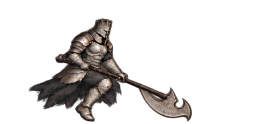
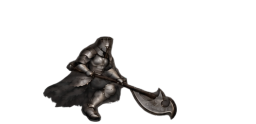
fix: match Gundyr walk scale and armor palette to idle

Changed region(s): [[0.0938, 0.1452, 0.75, 0.9919]]

diff --git a/tests/test_walk_animation.py b/tests/test_walk_animation.py
@@ -4,6 +4,7 @@ import contextlib
 import io
 import os
 from pathlib import Path
+from statistics import median
 import tempfile
 import unittest
 from unittest.mock import patch
@@ -66,7 +67,8 @@ class DrawnWalkTests(unittest.TestCase):
     def test_every_pose_is_distinct_including_the_torso(self):
         pixels = {pygame.image.tobytes(frame, "RGBA") for frame in self.frames}
         self.assertEqual(len(pixels), 16)
-        torso = pygame.Rect(36, 25, 50, 48)
+        torso = pygame.Rect(exporter.BODY_AXIS - 14,
+                            exporter.BASELINE - exporter.WALK_POSE_HEIGHT + 17, 38, 36)
         chest = {pygame.image.tobytes(frame.subsurface(torso), "RGBA") for frame in self.frames}
         self.assertEqual(len(chest), 16)
 
@@ -90,6 +92,46 @@ class DrawnWalkTests(unittest.TestCase):
         heights = [frame.get_bounding_rect(min_alpha=24).height for frame in self.frames]
         self.assertGreater(max(heights), min(heights))
         self.assertLessEqual(max(heights) - min(heights), 5)
+
+    def test_bent_walk_is_not_enlarged_to_the_upright_idle_height(self):
+        idle = main.SpriteArt._strips("gundyr", ("idle",), 1.0)["idle"]
+        idle_height = median(frame.get_bounding_rect(min_alpha=24).height for frame in idle)
+        # A bent torso and flexed knees must reduce pose height, not cause
+        # larger helmet/plates through a full-height normalization to idle.
+        for frame in self.frames:
+            height = frame.get_bounding_rect(min_alpha=24).height
+            self.assertGreater(height, idle_height * 0.75)
+            self.assertLess(height, idle_height * 0.90)
+
+    def test_generated_metal_palette_matches_idle_without_bright_silver_pop(self):
+        def palette(frames):
+            colors = [frame.get_at((x, y)) for frame in frames
+                      for y in range(frame.get_height()) for x in range(frame.get_width())
+                      if frame.get_at((x, y)).a > 200]
+            luminance = sorted(.2126 * color.r + .7152 * color.g + .0722 * color.b
+                               for color in colors)
+            levels = [luminance[int((len(luminance) - 1) * fraction)]
+                      for fraction in (.90, .95, .99)]
+            warmth = median(color.r - color.b for color in colors)
+            return levels, warmth
+
+        idle = main.SpriteArt._strips("gundyr", ("idle",), 1.0)["idle"]
+        reference, reference_warmth = palette(idle)
+        walk, walk_warmth = palette(self.frames)
+        # Allow different visible cloth/metal coverage and painted texture,
+        # but reject the bright cream/silver highlights of the old walk sheet.
+        for actual, expected, tolerance in zip(walk, reference, (12, 12, 25)):
+            self.assertLessEqual(abs(actual - expected), tolerance)
+        # A few RGB levels allow natural painted reflections/cloth coverage,
+        # but not the noticeably warm bronze tint of the previous drawings.
+        self.assertLessEqual(walk_warmth, reference_warmth + 5)
+
+    def test_corrected_source_has_wide_vertical_gutters_between_rows(self):
+        bounds = exporter.source_rects(self.source)
+        for row in range(3):
+            lowest = max(rect.bottom for rect in bounds[row * 4:row * 4 + 4])
+            next_top = min(rect.top for rect in bounds[(row + 1) * 4:(row + 2) * 4])
+            self.assertGreaterEqual(next_top - lowest, 32)
 
     def test_export_never_imports_warping_or_interpolation_tools(self):
         original_import = builtins.__import__

diff --git a/prepare_drawn_walk.py b/prepare_drawn_walk.py
@@ -3,7 +3,9 @@
 The source is a generated 4x4 sheet. A connected opaque silhouette identifies
 each complete sprite (body AND weapon); explicit pelvis registration keeps
 the animation origin stable. Only crop, uniform whole-pose scale and padding
-are used. Row scale calibration corrects the generator's atlas-size variation.
+are used. Color/material corrections are painted in the generated source,
+not applied as a runtime tint. Row calibration corrects atlas-size variation;
+the walk's bent silhouette is deliberately shorter than the upright idle.
 Runtime consumes sixteen independent PNGs, never neighboring atlas cells.
 """
 
@@ -15,7 +17,7 @@ import pygame
 
 
 ROOT = Path(__file__).parent
-SOURCE = ROOT / "assets" / "source_v6" / "gundyr_walk.png"
+SOURCE = ROOT / "assets" / "source_v6" / "gundyr_walk_consistent.png"
 OUTPUT = ROOT / "assets" / "animations_v6" / "gundyr_walk"
 FRAME_COUNT = 16
 CELL_SIZE = (256, 124)
@@ -23,19 +25,24 @@ BODY_AXIS = 104
 BASELINE = CELL_SIZE[1] - 2
 ALPHA_THRESHOLD = 24
 MIN_SPRITE_PIXELS = 500
-# Artist registration points, in the ORIGINAL selected source's coordinates.
+# Artist registration points, in the corrected source's coordinates.
 # These identify the pelvis, not the changing blade extent or head tilt.
 PELVIS_X = (
-    195, 606, 1052, 1479,
-    201, 611, 1060, 1491,
-    202, 610, 1057, 1492,
-    207, 626, 1059, 1493,
+    212, 629, 1044, 1458,
+    214, 625, 1056, 1463,
+    218, 627, 1046, 1463,
+    218, 637, 1053, 1471,
 )
-SOURCE_SIZE = (1672, 941)
+SOURCE_SIZE = (1671, 941)
 # AI sheets can draw later rows at a smaller pixel scale. Correct each row as
 # a WHOLE, identically on both axes and on all four poses in it; do not stretch
 # a limb or scale individual poses to equal heights. Their drawn bob remains.
-ROW_SCALES = (104 / 231.5, 104 / 232.5, 104 / 225, 104 / 208.5)
+# Matching a crouched walk's full height to the 104px upright idle enlarged
+# its helmet, pauldrons and blade. At 86px their painted proportions match
+# the idle while the inclined torso and flexed knees keep their shorter pose.
+# This remains a single scale per ROW, not a per-frame height equalizer.
+WALK_POSE_HEIGHT = 86
+ROW_SCALES = tuple(WALK_POSE_HEIGHT / height for height in (172.5, 175, 176, 168.5))
 
 
 def source_drawings(sheet: pygame.Surface):

diff --git a/assets/source_v6/gundyr_walk_consistent.md b/assets/source_v6/gundyr_walk_consistent.md
@@ -1,0 +1,64 @@
+# Gundyr — consistência de tamanho e cor
+
+Fonte final: `gundyr_walk_consistent.png` (**1671×941**, RGBA), gerada com **image_gen integrada**, saída selecionada `exec-0fe048fb-4cc9-40c1-bfbf-af3174e7265c.png`. Não foi usado CLI nem processamento de cor por código. O atlas original aprovado `gundyr_walk.png` foi preservado.
+
+A sequência de 16 passadas, inclinação/contrapeso do tronco, botas elevadas e cadência de 1,6 s foram mantidas. As edições generativas concentraram-se na armadura cinza-ferro mais discreta, reflexos menos claros e separação dos desenhos. A referência de material e proporções foi `../source_v5/boss_idle.png`; o último passe também usou uma comparação renderizada com o idle à esquerda e a caminhada à direita.
+
+O exportador `../../prepare_drawn_walk.py` mantém apenas operações de extração da silhueta completa, escala uniforme por linha e registro de pelve/chão. Não move membros, não cria poses por interpolação, não aplica filtro de cor em execução. A altura de referência das poses inclinadas passou de 104 para **86 pixels**: igualar sua altura à do idle ereto estava ampliando elmo, placas e arma. Há uma só escala por linha, preservando o pequeno sobe/desce dos desenhos. Células finais: 256×124, sola de apoio em y=122; o jogo continua ampliando todas as animações do chefe por 1,55.
+
+PNGs finais: `../animations_v6/gundyr_walk/00.png` a `15.png`. Os golpes, idle, velocidade de deslocamento, relógio das passadas e hitboxes não foram alterados. Testes verificam tamanho relativo ao idle, intensidade dos reflexos/paleta, gutters verticais, botas de apoio, pés suspensos, quadros separados e cadência.
+
+As variantes intermediárias ficaram somente no diretório padrão da ferramenta; a fonte selecionada foi copiada para o projeto. Prompts abaixo registram o processo de edição. A ferramenta retornou largura de 1671 px no último passe, apesar da largura solicitada de 1672; os pontos de registro foram conferidos e o exportador valida a dimensão real.
+
+## Correspondência com o idle
+
+```text
+Use case: identity-preserve.
+Asset type: production 16-frame Gundyr walk sprite atlas, transparent PNG.
+Image 1 is the EDIT TARGET: the APPROVED 16 distinct walking drawings, 4 columns by 4 rows, chronological row-major order. Image 2 is ONLY a MATERIAL/COLOR and CHARACTER PROPORTION reference: Gundyr's existing idle animation. Do not copy the idle poses into the walk.
+
+Requested correction: match the walking Gundyr to the idle Gundyr. Image 1 currently looks bulkier with oversized shoulder/chest armor and helmet, and much lighter brown/bronze. Correct the painted sprites themselves to the subdued dark, nearly neutral charcoal-grey iron/steel of Image 2. Match the idle's darker midtones and restrained silver highlights; remove the bright cream/bronze tint. Match helmet, pauldron, breastplate, knee plate and halberd proportions to the slimmer idle armor. Walking must look like the SAME character bending and transferring weight, NOT a larger version. Keep the ragged skirt/cape charcoal black, not faded brown. One consistent dark-grey engraved crescent halberd per pose, complete shaft and blade.
+
+CRITICAL invariants: preserve EACH of the sixteen approved walk poses and their exact sequence, torso lean, torso/hip counterbalance, foot locations, bent knees, lifted airborne boots, two-handed grip, facing RIGHT and the same slightly three-quarter side view. Preserve the unique contact/down/passing/up positions; never replace them with standing poses or add new animation frames. Keep complete limbs, boots, helmet and weapon. Only correct material coloration and armor bulk/proportional consistency, do not redesign or change the walking choreography. Small natural bob remains. Do not equalize the heights of bent and upright poses.
+
+Layout: retain the same wide 16:9 atlas, ideally exactly 1672x941, FOUR columns x FOUR rows, sixteen separate full-body sprites. Do NOT enlarge the drawings. Wide transparent gutters around every complete sprite, including every blade tip. All rows must use the same anatomical size (helmet and pauldrons). All sprite silhouettes separate, no touching rows/columns. Real alpha transparency. No ground, shadow, text, labels, grids, backdrop or checker pattern. Return only the corrected usable 16-frame atlas.
+```
+
+## Primeiro ajuste de gutters
+
+```text
+Use case: precise-object-edit. Production layout-only fix of this corrected Gundyr walk atlas.
+Input1 is the EDIT TARGET. Preserve its new dark grey/charcoal armor palette, all sixteen full-body drawings, their precise limb/torso/boot poses and chronological row-major order. Do NOT redraw movement, do NOT recolor, do NOT change armor/cape/blade. All face RIGHT.
+
+The sole correction is EMPTY TRANSPARENT VERTICAL GUTTERS: the boot in row3 column3 nearly touches the helmet in row4 column3, creating a connected silhouette. There are also narrow gaps between other rows. Put every COMPLETE pose inside its own regular 4x4 cell with at least20 pixels of genuinely transparent space ABOVE its helmet and BELOW its supporting sole, and at least20px around all weapon/blade tips. Reduce each COMPLETE sprite uniformly (same factor on both axes, including its weapon) within its cell if necessary; never shorten or move an individual limb. Four columns, four rows, wide landscape16:9 atlas, ideally1672x941. Absolutely no sprite overlaps or touches another sprite, no shared opaque pixels. Keep all16 poses, not8 or12. Airborne boots must retain the exact original lift relative to the support sole. Whole poses only, preserve drawn anatomical size consistency and naturally different bent/upright pose heights. Actual alpha transparency, no background/grid/text/labels/ground/shadows. Change ONLY complete-pose packing/gutters; preserve ALL painted details and corrected color.
+```
+
+## Reflexos do metal
+
+```text
+Use case: lighting-weather. Final material-highlight consistency pass ONLY.
+Image1 is EDIT TARGET, the sixteen Gundyr walking sprites. Image2 is ONLY the existing IDLE material/brightness reference.
+
+Keep Image1 EXACTLY the same16 poses, silhouettes, proportions, right facing, order, positions, image size1672x941, 4x4 grid and empty transparent gutters. No repacking, no enlarging, no leg/torso movement, no weapon redesign. Airborne feet stay airborne.
+
+Change ONLY the excessively bright almost-white metallic highlights on Image1's helmet, shoulder plates, chest, knee guards, boots and halberd blade into restrained muted iron-grey highlights matching Image2. Image1 should not look silver-white and glossy while idle is dark subdued weathered iron. Lower the bright silver highlights by about20%, soften the contrast of the bright raised metal details, keep metal texture engraving and current nearly neutral dark grey color. Match the IDLE's subdued mid-grey metal with dull worn highlights, not a bright polished render. Keep the already dark charcoal cape, cloth and shadows unchanged: do NOT darken the entire sprite or crush black details. No brown/bronze/gold tint. Same character, only bright material shading corrected to the idle reference. Preserve every existing outline and boot gap, complete consistent halberd, all16 disjoint full-body sprites and wide transparent gutters. Actual alpha transparency, no ground/shadow/grid/text/labels/backdrop.
+```
+
+## Separação definitiva das linhas
+
+```text
+Use case: precise-object-edit. LAYOUT ONLY, preserve ALL painted pixels/details of these sixteen approved Gundyr walking drawings and their corrected dark neutral iron shading. Keep their exact foot lift, torso lean, bent knees, cape, hands, complete halberd, directionRIGHT and chronological row-major order. Do not change choreography or material color. Exactly SIXTEEN separate complete sprites,4 columns by4 rows.
+
+CRITICAL: The source drawings are too tall for their current row cells: a supporting boot in row3column3 touches the helmet in row4column3. Fix ONLY spacing by reducing ALL COMPLETE SPRITES uniformly in both axes to about75% of their current pixel size, centered within each respective cell. Apply the same complete-sprite scale reduction to all16, NEVER scale/move individual body parts. Keep a wide landscape16:9 transparent canvas1672x941 (or equivalent),4columns x4rows. Maximum visible complete sprite height170 pixels per235pixel-high row. This leaves at least60px of EMPTY VERTICAL TRANSPARENT SPACE BETWEEN EACH ROW, not5px. It must be a large obvious gap. Keep all complete blades and boot tips inside their own cell with big horizontal gutters too. Same drawn anatomy and natural differing pose heights; don't equalize heights. Do not fill the spare space by enlarging sprites again. Real alpha transparency, no floor/shadow/backdrop/labels/numbers/grid. Only reposition and uniformly shrink COMPLETE DRAWINGS for clear isolated silhouettes; do not alter the drawings, colors or animation.
+```
+
+## Paleta final selecionada
+
+```text
+Use case: identity-preserve. COLOR ONLY edit of Image1, the final isolated sixteen-frame walk atlas.
+Image2 is a visual comparison from the actual game: the LEFT stationary Gundyr is the required metal brightness; the RIGHT walking Gundyr is still far too white/silver on shoulders, chest and knee plates. The user wants no color pop when switching animation.
+
+Repaint ONLY the metal values in Image1 into the LEFT Gundyr's much more subdued grey iron. The walking shoulder/chest currently has stark off-white bright bands. Remove those almost-white/polished specular bands, keep their engraved forms but paint them a MATTE MEDIUM-DARK GREY. Use approximately grey RGB(90,86,84) for lit metal midtones, RGB(140,136,134) for strongest raised plate highlights, RGB(45,43,42) for darker iron. No white or pale cream metal, no bronze. Highlights should be about35% darker than current Image1 highlights, NOT a barely noticeable change. Match the LEFT character's subdued material under identical light. Keep the dark charcoal cape and deep shadows as they are; ONLY neutralize and lower bright metal highlights/midtones on crown helmet, pauldrons, chest, knees, boots, halberd blade. Preserve armor relief detail, not flat silhouettes.
+
+ABSOLUTE invariants: retain Image1's EXACT silhouette shapes, leg/boot locations and lift, all16 approved unique poses, counterbalancing torso movement, order, RIGHT facing, proportions, complete single halberd, atlas size1672x941 and all wide transparent gutters. Every full-body sprite stays in precisely the same place and anatomical size. Do NOT introduce pose/layout edits, do NOT grow/shrink figures, do NOT move boots or change gait. This is ONLY painted metal brightness/color matching. Output sixteen separate complete drawings in the SAME4x4 layout on actual transparency. No ground/grid/text/shadow/backdrop.
+```

diff --git a/README.md b/README.md
@@ -34,12 +34,14 @@ Durante o desenvolvimento, as hitboxes começam visíveis: azul para o jogador, 
 
 ## Animações
 
-As animações do cavaleiro e os golpes do chefe usam uma fonte independente por movimento em `assets/source_v5/`, organizada em uma grade invisível 5×2. O exportador transforma cada fonte em células isoladas em `assets/animations_v5/`, com margem de segurança, botas completas e linha de chão normalizada. A nova caminhada do Gundyr usa desenhos próprios em `assets/source_v6/gundyr_walk.png`, exportados como **um PNG por quadro** em `assets/animations_v6/gundyr_walk/`. O jogo prioriza esses arquivos individuais, que não podem capturar pedaços de um quadro vizinho.
+As animações do cavaleiro e os golpes do chefe usam uma fonte independente por movimento em `assets/source_v5/`, organizada em uma grade invisível 5×2. O exportador transforma cada fonte em células isoladas em `assets/animations_v5/`, com margem de segurança, botas completas e linha de chão normalizada. A nova caminhada do Gundyr usa desenhos próprios em `assets/source_v6/gundyr_walk_consistent.png`, exportados como **um PNG por quadro** em `assets/animations_v6/gundyr_walk/`. O jogo prioriza esses arquivos individuais, que não podem capturar pedaços de um quadro vizinho.
 
 - Cavaleiro: idle, corrida, rolamento, defesa, beber Estus, morte com pose final deitada, dois ataques leves e dois ataques fortes.
 - Iudex Gundyr: identidade alta e assimétrica inspirada na referência, alabarda consistente, idle separado, caminhada com 16 poses novas desenhadas (100 ms por quadro, ciclo-base de 1,6 s), duas varreduras, duas estocadas, golpe vertical e movimentos especiais. A caminhada preserva a sequência das passadas ao parar e retomar o movimento.
 
 Na caminhada, cada quadro é um desenho completo novo criado com geração de imagem, preservando o Gundyr, a armadura e a alabarda. O GIF e o diagrama de caminhada fornecidos pelo usuário foram usados como referência de movimento, sem trocar o personagem. O exportador não monta membros, não deforma poses e não cria quadros por optical flow ou crossfade: faz somente extração da silhueta completa, escala uniforme nos dois eixos e registro de origem/chão. A escala é calibrada por linha para compensar a diferença de tamanho na fonte gerada, sem alterar a anatomia nem igualar a altura de cada pose. Os 16 PNGs são reproduzidos diretamente. O arquivo `assets/source_v6/gundyr_walk.md` guarda os prompts e a origem da fonte selecionada. O relógio da animação continua acompanhando a distância percorrida e inverte ao recuar. Os scripts antigos `rig_gundyr_walk.py` e `interpolate_walk.py` ficam como histórico, mas não são chamados pelo jogo nem pelo comando de reexportação atual.
+
+A versão atual recebeu uma correção generativa de cor para acompanhar o cinza-ferro e os reflexos discretos do idle. As poses inclinadas usam altura de referência de 86 px, em vez de serem ampliadas até a altura ereta de 104 px: elmo, placas e arma ficam proporcionais, sem mudar o ritmo das passadas. As fontes anteriores foram preservadas. `assets/source_v6/gundyr_walk_consistent.md` registra a fonte final e os prompts de edição. O exportador não corrige cores em execução.
 
 Para reexportar somente os novos desenhos (precisa apenas de Pygame):
 
